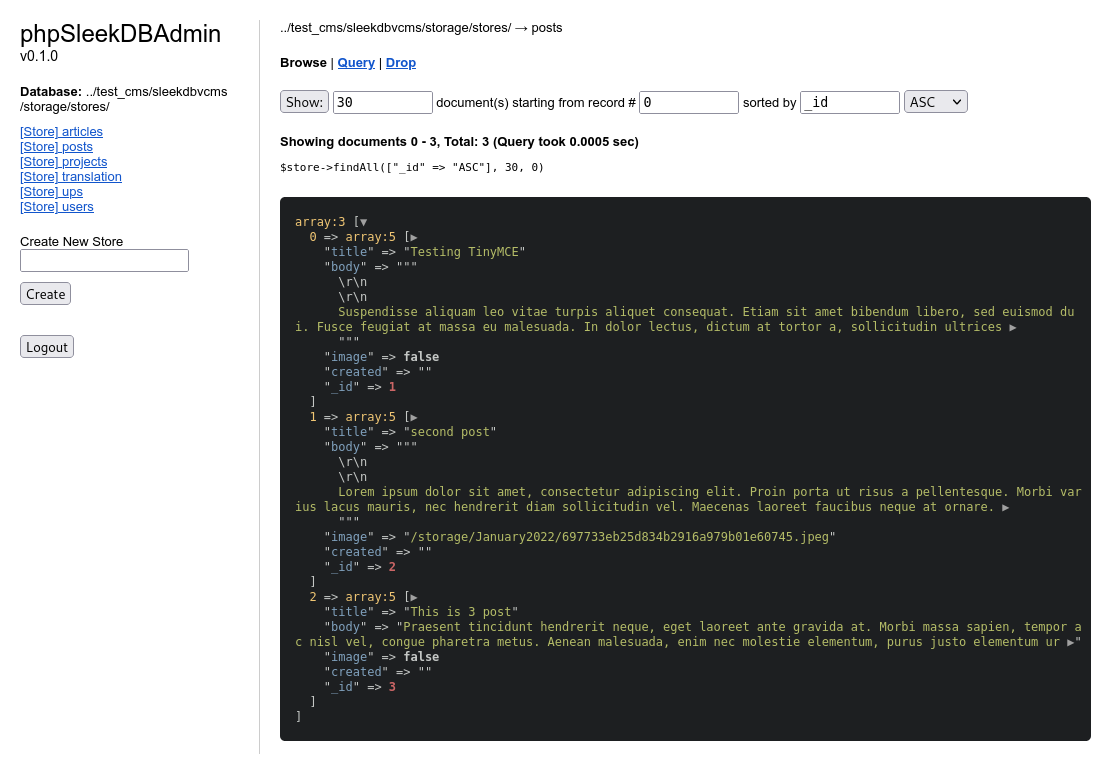
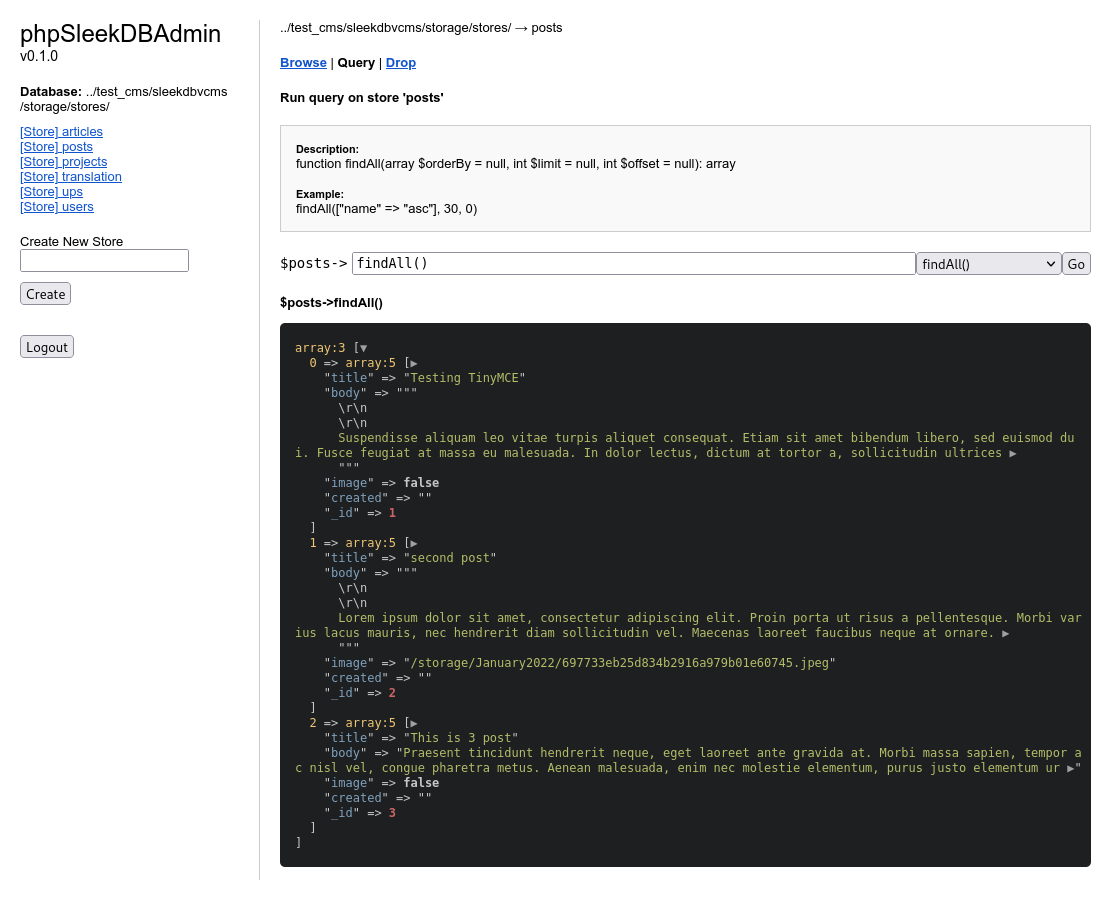
Add help labels, and upload better screenshot

diff --git a/phpsleekdbadmin.php b/phpsleekdbadmin.php
@@ -336,7 +336,7 @@ function render_view_query($html) {
           var text = $option.attr('data-help-text');
           var example = $option.attr('data-help-example');
           if (text && example) {
-            $('[data-help]').html(text + '<br><br>' + example);
+            $('[data-help]').html('<small><b>Description:</b></small><br>' + text + '<br><br><small><b>Example:</b></small><br>' + example);
             $('[data-help]').show();
           } else {
             $('[data-help]').hide();
